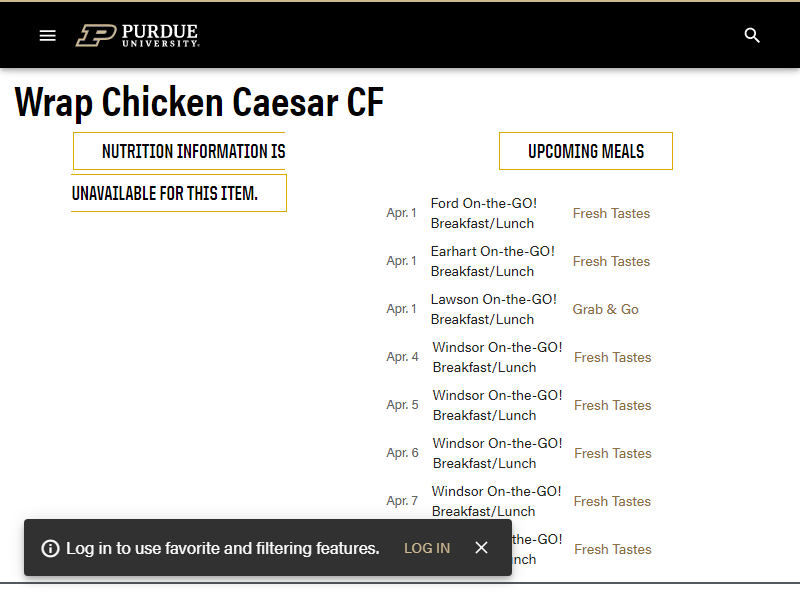
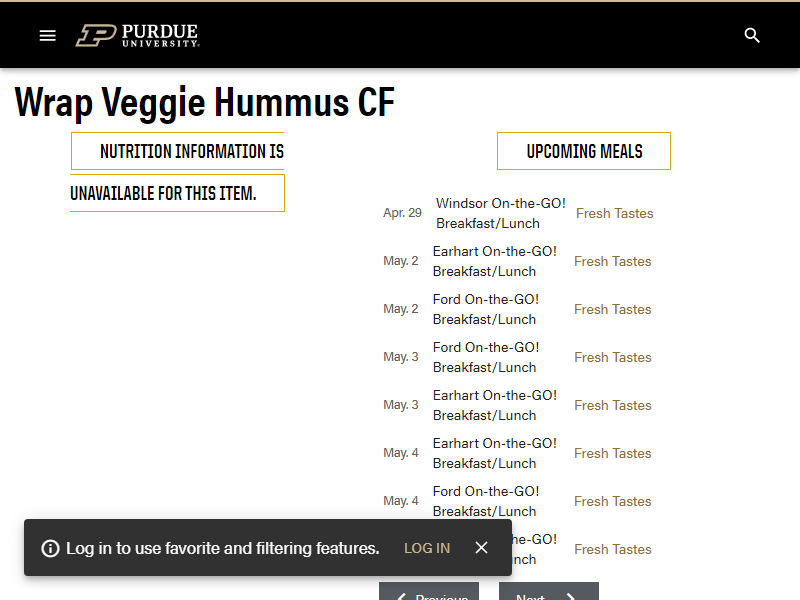
Scraper week update code

diff --git a/backend/scraperLibrary/updateDB.js b/backend/scraperLibrary/updateDB.js
@@ -17,113 +17,124 @@ async function updateDB(alwaysUpdateFood) {
   const urls = await scraper.scrapeMenuURLs();
 
   // Get On-The-GO! information
-  console.log(urls.onTheGo);
+  console.log("Urls obtained");
+  console.log(urls);
 
-  // Get Earhart OTG information
-  const earhartURL = urls.onTheGo[0];
-  const earhartInformation = await scraper.scrapeDiningCourtInfo(earhartURL);
+  // Update all dining courts
+  for (let c = 0; c < urls.onTheGo.length; c++) {
+    const otgURL = urls.onTheGo[c];
+    console.log("Updating: " + otgURL);
+    const otgInformation = await scraper.scrapeDiningCourtInfo(otgURL);
 
-  try {
-    // Get dining court from database
-    let dbDiningCourt = await DiningCourt.findOne({
-      name: earhartInformation.name,
-    });
-
-    // Create dining court entry if it doesn't exist
-    if (!dbDiningCourt) {
-      dbDiningCourt = new DiningCourt({
-        name: earhartInformation.name,
-        address: earhartInformation.address,
-        schedule: [],
+    try {
+      // Get dining court from database
+      let dbDiningCourt = await DiningCourt.findOne({
+        name: otgInformation.name,
       });
-    }
 
-    // Get today's meal schedule for every meal the dining court serves
-    const today = new Date();
+      // Create dining court entry if it doesn't exist
+      if (!dbDiningCourt) {
+        dbDiningCourt = new DiningCourt({
+          name: otgInformation.name,
+          address: otgInformation.address,
+          schedule: [],
+        });
+      }
 
-    // Parse date for database
-    const day = today.getDate();
-    const month = today.getMonth() + 1;
-    const year = today.getFullYear();
-    const dateString = month + "/" + day + "/" + year;
+      // Get today's meal schedule for every meal the dining court serves
+      const today = new Date();
 
-    // Create menu day
-    const menuDay = {
-      date: dateString,
-      menus: [],
-    };
+      // Get the next week's meal schedule
+      for (let i = 0; i < 7; i++) {
+        let menuDate = new Date(today);
+        menuDate.setDate(menuDate.getDate() + i);
+        console.log("Getting menu for: " + menuDate);
 
-    // Build the menus this dining court serves
-    for (const meal of earhartInformation.serves) {
-      // Get meal info
-      const mealInfo = await scraper.scrapeMealMenu(earhartURL, today, meal);
+        // Parse date for database
+        const day = menuDate.getDate();
+        const month = menuDate.getMonth() + 1;
+        const year = menuDate.getFullYear();
+        const dateString = month + "/" + day + "/" + year;
 
-      // Store basic meal info
-      const menuObject = {
-        menuType: mealInfo.mealType,
-        timeServed: mealInfo.timeServed,
-        stations: [],
-      };
-
-      // Get station info
-      for (const station of mealInfo.stations) {
-        const stationObject = {
-          name: station.name,
-          foods: [],
+        // Create menu day
+        const menuDay = {
+          date: dateString,
+          menus: [],
         };
 
-        // Get food information
-        for (const food of station.foods) {
-          let dbFood = await Food.findOne({ name: food.foodName });
+        // Build the menus this dining court serves
+        for (const meal of otgInformation.serves) {
+          // Get meal info
+          const mealInfo = await scraper.scrapeMealMenu(otgURL, today, meal);
 
-          // Scrape the food if it doesn't exist, or if we want to update everything we come across.
-          if (!dbFood) {
-            // NEW FOOD
-            console.log("Adding food: " + food.foodName);
-            const foodInfo = await scraper.scrapeFoodInfo(food.foodURL);
+          // Store basic meal info
+          const menuObject = {
+            menuType: mealInfo.mealType,
+            timeServed: mealInfo.timeServed,
+            stations: [],
+          };
 
-            // "Wedge salad bowl" prevention. When a "nonexistant" food is actually in the database under a different alias.
-            dbFood = await Food.findOne({ name: foodInfo.name });
+          // Get station info
+          for (const station of mealInfo.stations) {
+            const stationObject = {
+              name: station.name,
+              foods: [],
+            };
 
-            if (!dbFood) {
-              dbFood = new Food(foodInfo);
-              let doc = await dbFood.save();
-              stationObject.foods.push(doc._id);
-            } else {
-              dbFood = await Food.findOneAndUpdate(
-                { name: foodInfo.name },
-                foodInfo,
-                { new: true }
-              );
+            // Get food information
+            for (const food of station.foods) {
+              let dbFood = await Food.findOne({ name: food.foodName });
 
-              stationObject.foods.push(dbFood._id);
+              // Scrape the food if it doesn't exist, or if we want to update everything we come across.
+              if (!dbFood) {
+                // NEW FOOD
+                console.log("Adding food: " + food.foodName);
+                const foodInfo = await scraper.scrapeFoodInfo(food.foodURL);
+
+                // "Wedge salad bowl" prevention. When a "nonexistant" food is actually in the database under a different alias.
+                dbFood = await Food.findOne({ name: foodInfo.name });
+
+                if (!dbFood) {
+                  dbFood = new Food(foodInfo);
+                  let doc = await dbFood.save();
+                  stationObject.foods.push(doc._id);
+                } else {
+                  dbFood = await Food.findOneAndUpdate(
+                    { name: foodInfo.name },
+                    foodInfo,
+                    { new: true }
+                  );
+
+                  stationObject.foods.push(dbFood._id);
+                }
+              } else if (alwaysUpdateFood) {
+                // UPDATE FOODS
+                const foodInfo = await scraper.scrapeFoodInfo(food.foodURL);
+                dbFood = await Food.findOneAndUpdate(
+                  { name: food.foodName },
+                  foodInfo,
+                  { new: true }
+                );
+                stationObject.foods.push(dbFood._id);
+              } else {
+                // DON'T UPDATE FOODS
+                stationObject.foods.push(dbFood._id);
+              }
             }
-          } else if (alwaysUpdateFood) {
-            // UPDATE FOODS
-            const foodInfo = await scraper.scrapeFoodInfo(food.foodURL);
-            dbFood = await Food.findOneAndUpdate(
-              { name: food.foodName },
-              foodInfo,
-              { new: true }
-            );
-            stationObject.foods.push(dbFood._id);
-          } else {
-            // DON'T UPDATE FOODS
-            stationObject.foods.push(dbFood._id);
+            // Push station info onto meal info
+            menuObject.stations.push(stationObject);
           }
+          menuDay.menus.push(menuObject);
         }
-        // Push station info onto meal info
-        menuObject.stations.push(stationObject);
+
+        dbDiningCourt.schedule.push(menuDay);
       }
-      menuDay.menus.push(menuObject);
+
+      await dbDiningCourt.save();
+    } catch (err) {
+      console.error(err);
     }
-
-    dbDiningCourt.schedule.push(menuDay);
-    await dbDiningCourt.save();
-  } catch (err) {
-    console.error(err);
   }
-
   await scraper.close();
   console.log("Closed");
   process.exit();
